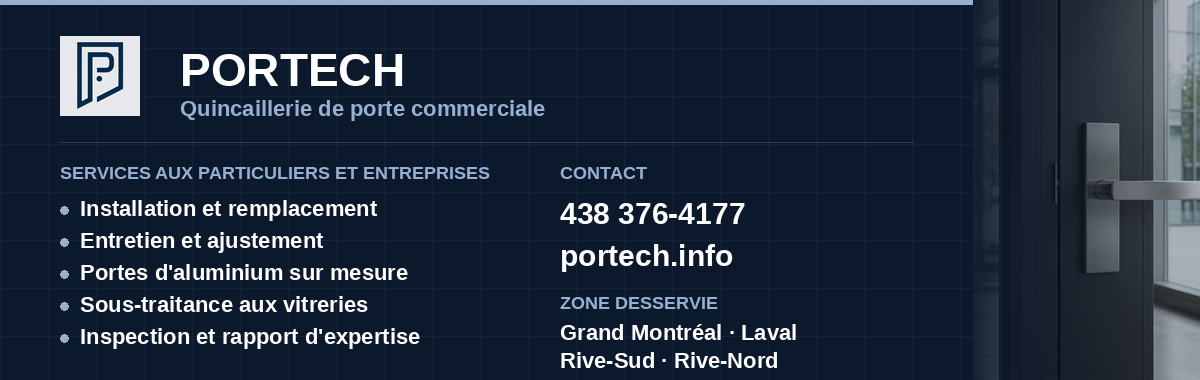
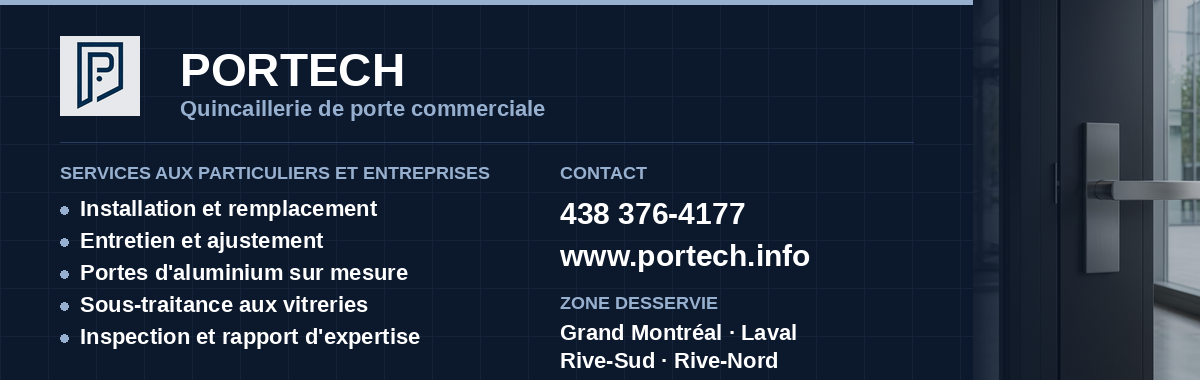
auto-commit for aa906fe8-a7e5-422d-bfdb-7a3d844dd98e

Changed region(s): [[0.4625, 0.6368, 0.6783, 0.7237]]

diff --git a/scripts/generate_email_banner.py b/scripts/generate_email_banner.py
@@ -190,7 +190,7 @@ for s in services:
 right_x = 560
 fd.text((right_x, 162), "CONTACT", font=font_label, fill=MUTED)
 fd.text((right_x, 196), "438 376-4177", font=font_md, fill=WHITE)
-fd.text((right_x, 238), "portech.info", font=font_md, fill=WHITE)
+fd.text((right_x, 238), "www.portech.info", font=font_md, fill=WHITE)
 fd.text((right_x, 292), "ZONE DESSERVIE", font=font_label, fill=MUTED)
 fd.text((right_x, 320), "Grand Montréal · Laval", font=font_xs, fill=WHITE)
 fd.text((right_x, 348), "Rive-Sud · Rive-Nord", font=font_xs, fill=WHITE)
